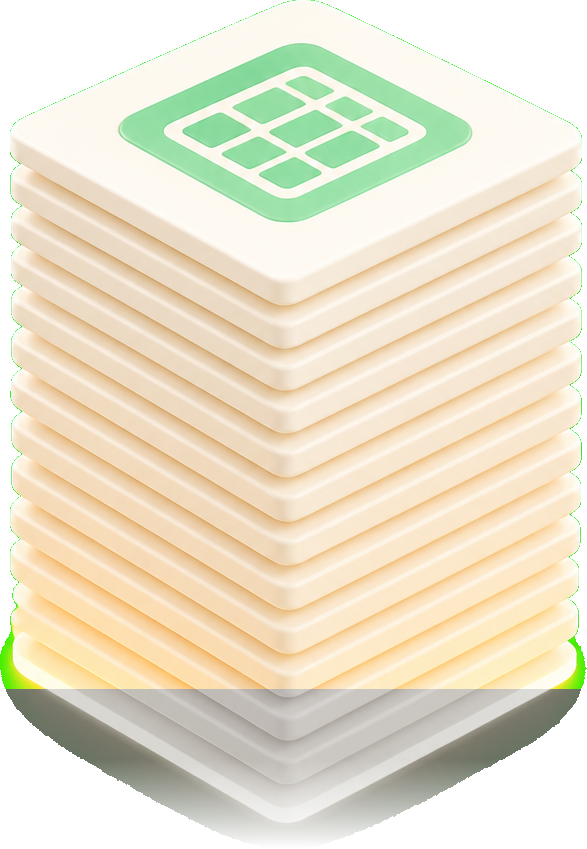
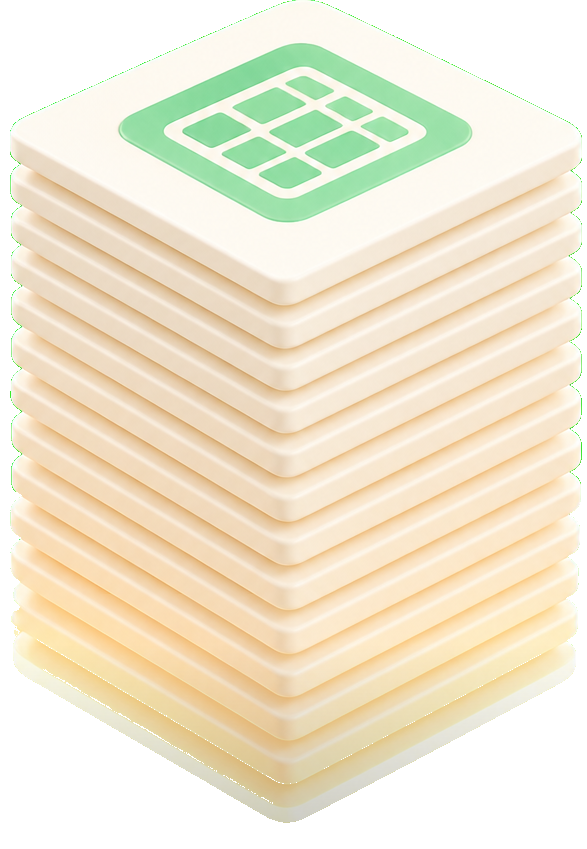
Sit the paper mountain on the table like the binders.
Erase the baked lime halo, warm the lowest sheets, and use a wood contact shadow instead of a gray fade or neon pulse.

Changed region(s): [[0.0, 0.735, 1.0, 1.0]]

diff --git a/app/globals.css b/app/globals.css
@@ -615,8 +615,8 @@ body {
   top: 61.5%;
   left: 50%;
   z-index: 4;
-  width: 9.2rem;
-  height: 11.2rem;
+  width: 8.6rem;
+  height: 10.4rem;
   pointer-events: none;
   transform: translate(-50%, -100%);
 }
@@ -630,20 +630,20 @@ body {
 
 .paper-pile-glow {
   position: absolute;
-  bottom: 0.12rem;
+  bottom: 0.04rem;
   left: 50%;
   z-index: 0;
-  width: 4.8rem;
-  height: 1.45rem;
+  width: 5.4rem;
+  height: 1.7rem;
   border-radius: 50%;
   background: radial-gradient(
     ellipse,
-    rgb(48 28 10 / 0.38) 0%,
-    rgb(48 28 10 / 0.12) 48%,
-    transparent 74%
+    rgb(42 24 10 / 0.5) 0%,
+    rgb(42 24 10 / 0.18) 52%,
+    transparent 76%
   );
   transform: translateX(-50%);
-  filter: blur(6px);
+  filter: blur(7px);
 }
 
 .clay-idle-tile {
@@ -651,12 +651,12 @@ body {
   left: 50%;
   bottom: 0.08rem;
   z-index: 2;
-  width: 5.4rem;
+  width: 5.2rem;
   height: auto;
   max-width: none;
   transform: translateX(-50%);
-  filter: brightness(0.97) saturate(0.92)
-    drop-shadow(3px 6px 7px rgb(40 24 8 / 0.28));
+  filter: sepia(0.1) saturate(0.92) brightness(0.94) contrast(0.94)
+    drop-shadow(3px 6px 7px rgb(40 24 8 / 0.3));
   animation: idle-clay-breathe 2.4s ease-in-out infinite;
 }
 
@@ -668,23 +668,43 @@ body {
   z-index: 3;
   height: 100%;
   transform-origin: center bottom;
-  filter: drop-shadow(4px 10px 12px rgb(40 24 8 / 0.28));
-  -webkit-mask-image: linear-gradient(to top, transparent 0%, #000 8%);
-  mask-image: linear-gradient(to top, transparent 0%, #000 8%);
+  filter: drop-shadow(2px 5px 5px rgb(40 22 8 / 0.38))
+    drop-shadow(5px 12px 14px rgb(40 22 8 / 0.22));
+}
+
+.clay-stack::after {
+  content: "";
+  position: absolute;
+  bottom: -0.05rem;
+  left: 18%;
+  z-index: 0;
+  width: 64%;
+  height: 1.35rem;
+  border-radius: 50%;
+  background: radial-gradient(
+    ellipse at 50% 65%,
+    rgb(40 22 8 / 0.42) 0%,
+    transparent 72%
+  );
+  filter: blur(5px);
+  mix-blend-mode: multiply;
+  pointer-events: none;
 }
 
 .clay-stack-art {
   position: absolute;
   bottom: 0;
   left: 50%;
+  z-index: 2;
   display: block;
-  width: 92%;
+  width: 90%;
   height: 100%;
   max-width: none;
   object-fit: contain;
   object-position: bottom center;
   transform: translateX(-50%);
-  filter: brightness(0.96) contrast(0.95) saturate(0.9);
+  /* Mild warmth only — sepia(1) muddies the mint grid. */
+  filter: sepia(0.1) saturate(0.9) brightness(0.92) contrast(0.93);
   animation: clay-rise 0.7s cubic-bezier(0.22, 1.28, 0.36, 1) both;
 }
 

diff --git a/components/paper-stack.tsx b/components/paper-stack.tsx
@@ -43,7 +43,7 @@ export function PaperStack({
       ) : (
         <div key={`pile-${burstId}`} className="clay-stack">
           <Image
-            src="/clay-paper-stack.png"
+            src="/clay-paper-stack.png?v=wood2"
             alt=""
             width={587}
             height={849}

diff --git a/doc/progress/2026-08-30-clay-stack-fit.md b/doc/progress/2026-08-30-clay-stack-fit.md
@@ -1,0 +1,22 @@
+# 2026-08-30 종이산을 회의실에 어울리게
+
+## 5단계
+
+1. 스티커처럼 보인 이유: PNG 발치에 라임 네온이 구워져 있고, 위는 차가운 흰색이라 따뜻한 나무·점토와 끊긴다.
+2. 바인더는 네온 없이 나무색 접촉 그림자만 있다. 종이산도 그렇게 앉혀야 한다.
+3. `02.png`의 빛은 약한 노란 안착이지, CSS 램프가 아니다.
+4. 라임을 회색으로 바꾸면 회판이 생긴다. 라임은 지우고, 아랫장만 크림으로, 발치는 나무색 AO.
+5. `sepia(1)`·타일 반복·타워 창 자르기는 쓰지 않는다.
+
+## 이번에 한 일
+
+- `public/clay-paper-stack.png`: 발치 라임 삭제, 아랫장 노란 바운스를 크림으로, 발치만 조금 어둡게.
+- CSS: 나무색 접촉 그림자, `sepia(0.1)`, 발치 마스크(회판) 제거, 크기를 바인더에 가깝게.
+- 이미지 URL `?v=wood2`로 네온 PNG 캐시 방지.
+
+실토론 버튼은 누르지 않는다. 쌓임은 `/files` 더미 CSV 후 홈.
+
+## 검증
+
+- 단위 `pnpm test`
+- HTTPS https://boardroom-six-delta.vercel.app
